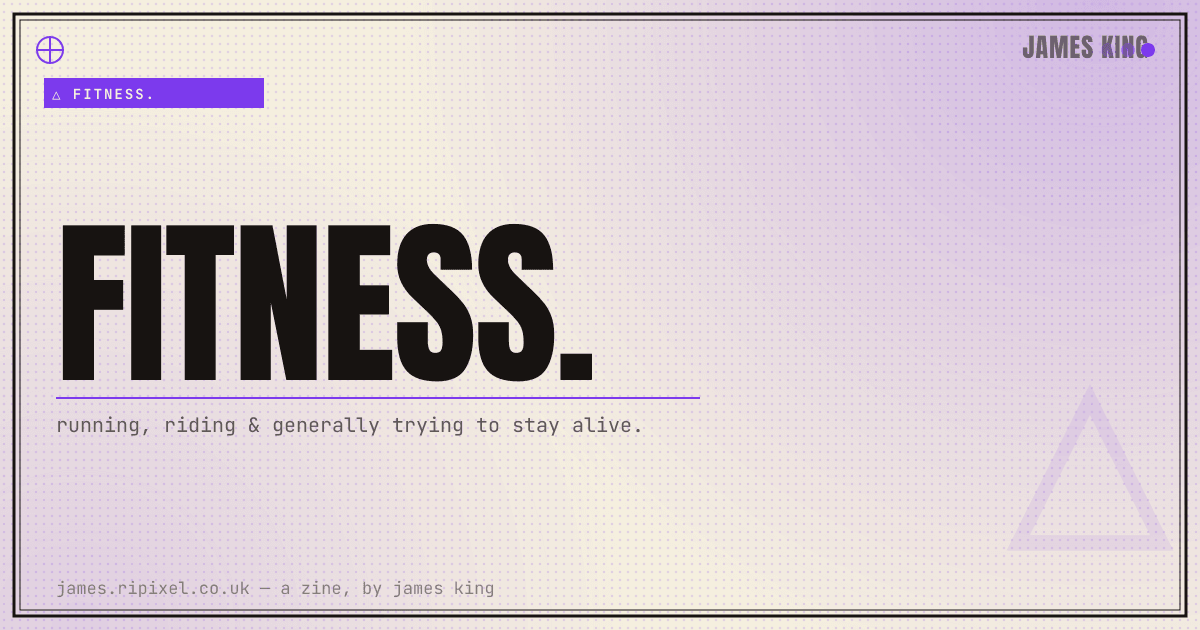
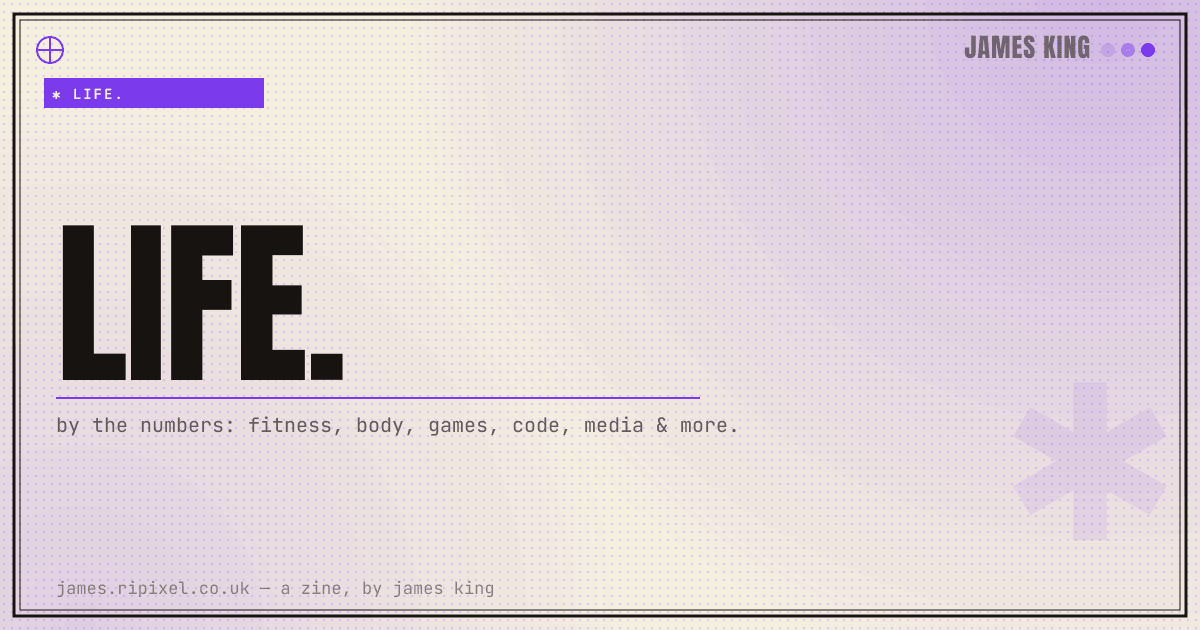
og: a card per /life section; the hub card says LIFE., not FITNESS.
head.html falls back to card_{{page}}.png and every /life page has page: 'life'
(the nav), so the hub and all 42 section, sessions and roundup-list pages shared
card_life.png, which still read "FITNESS." from before /life became the hub.

- card_life is now LIFE.; card_fitness is the old FITNESS. card; body, games,
  code, watching, listening, reading and live get their own, in their section ink
- tasks/og-cards.mjs: one place for the card URLs; /life/fitness, sessions and
  roundups take card_fitness, each section page its own card, and activity,
  race-weekend and roundup pages without a share card fall back to card_fitness
- the byline no longer overlaps the ink-dot cluster on every card
- surprise.html emitted two og:images, both 404 (card_surprise.png,
  www.ripixel.co.uk/jamie.jpg); the duplicate meta block is gone and the head
  partial points at james.ripixel.co.uk/jamie.jpg

diff --git a/personal/pages/surprise.html b/personal/pages/surprise.html
@@ -16,20 +16,6 @@
     gtag('config', 'G-MNE4SWQ0L0');
   </script>
 
-  <!-- Traditional Metadata -->
-  <title>{{title}}</title>
-  <meta charset="utf-8" />
-  <meta name="description" content="{{description}}" />
-  <meta name="author" content="James King" />
-  <meta name="viewport" content="width=device-width, initial-scale=1" />
-
-  <!-- Social sharing meta -->
-  <meta property="og:title" content="{{title}}" />
-  <meta property="og:site_name" content="{{siteName}}" />
-  <meta property="og:description" content="{{description}}" />
-  <meta property="og:image" content="https://www.ripixel.co.uk/jamie.jpg" />
-  <meta name="twitter:card" content="summary_large_image" />
-
   <!-- Styles -->
   <link rel="stylesheet" href="/styles.jamie.min.{{cacheHash}}.css" />
   </head>

diff --git a/fixtures/fitness/baseline/week-42-2026.html b/fixtures/fitness/baseline/week-42-2026.html
@@ -47,7 +47,7 @@
   <meta property="og:site_name" content="jamesking.dev" />
   <meta property="og:description" content="Three sessions, three different shapes: a push day that finally put 100 kg on the bench, a 32 km evening loop out to the reservoir with one honest climb,…" />
   <meta property="og:url" content="https://james.ripixel.co.uk/life/roundup/week-42-2026" />
-  <meta property="og:image" content="https://james.ripixel.co.uk/card_life.png" />
+  <meta property="og:image" content="https://james.ripixel.co.uk/card_fitness.png" />
   <meta property="article:published_time" content="2026-10-19T00:05:12Z" />
   <meta name="twitter:card" content="summary_large_image" />
 
